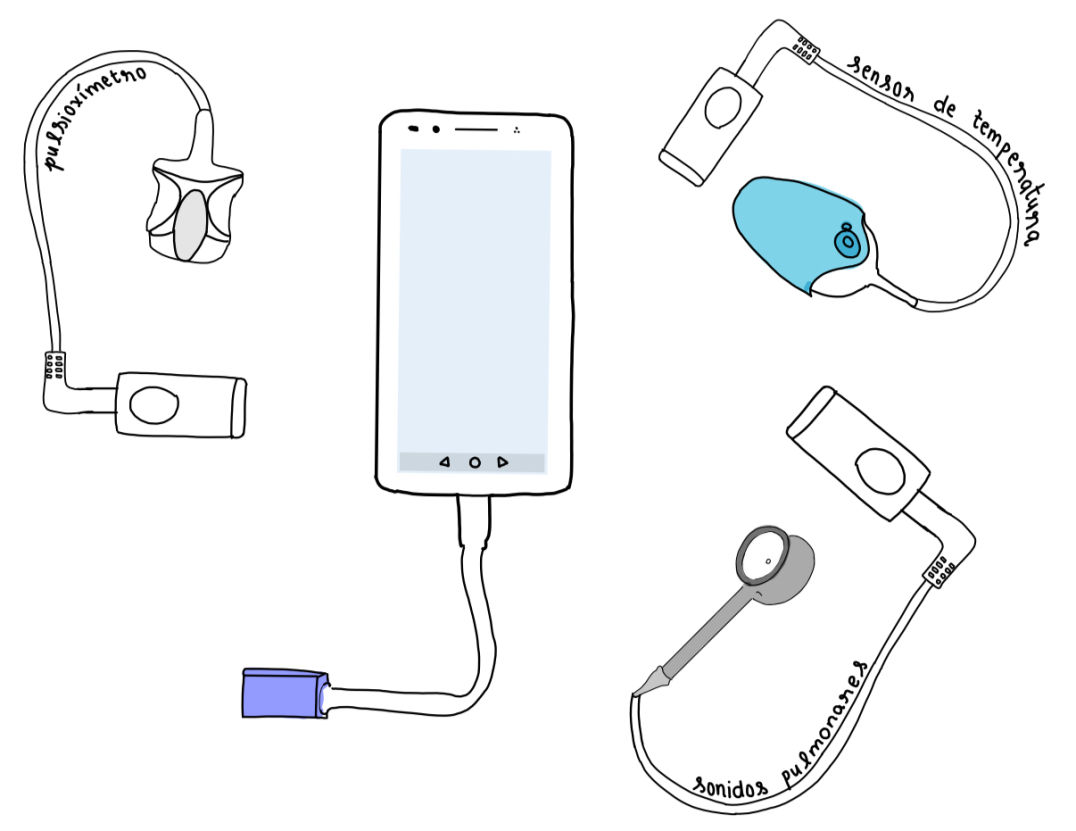
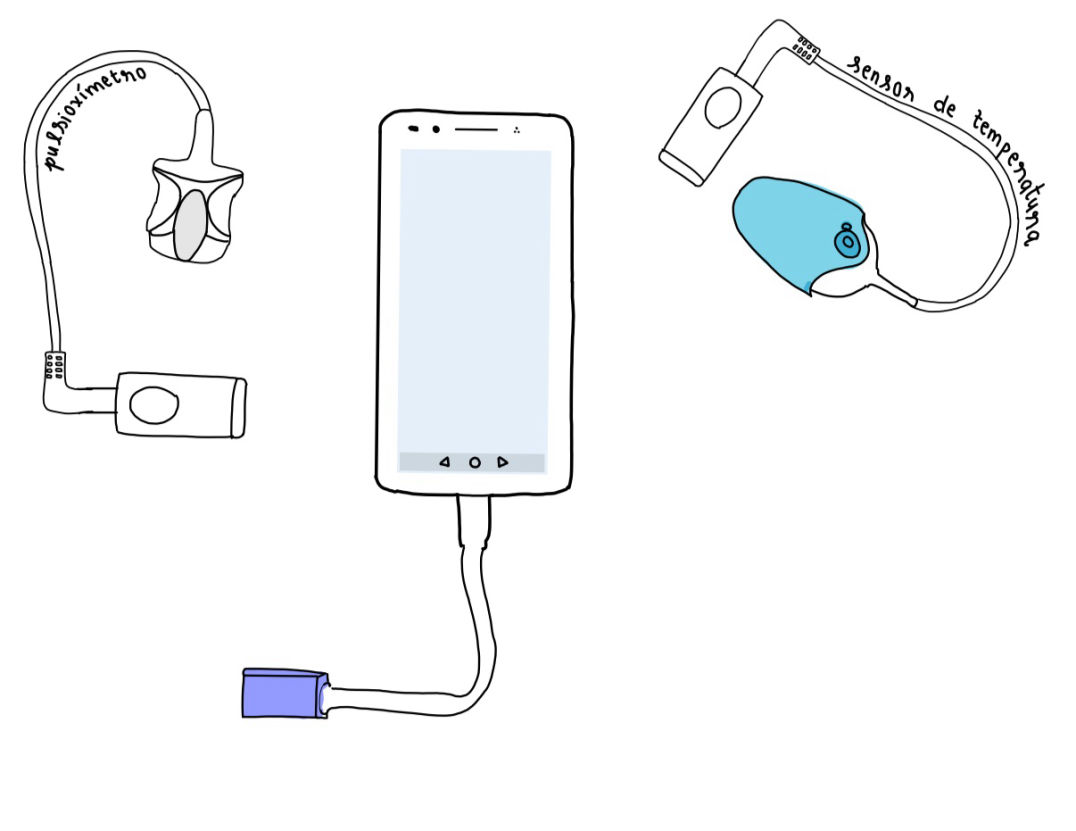
create github pages

Changed region(s): [[0.7361, 0.4513, 0.9201, 0.7822], [0.5827, 0.6318, 0.7667, 0.9326], [0.6134, 0.7822, 0.8281, 0.9928]]

diff --git a/page11.html b/page11.html
@@ -61,7 +61,7 @@
 
 </section>
 
-<section class="engine"><a href="https://mobirise.info/y">free html site templates</a></section><section class="header5 cid-saI55jeGzr mbr-fullscreen" id="header5-8s">
+<section class="engine"><a href="https://mobirise.info/x">css templates</a></section><section class="header5 cid-saI55jeGzr mbr-fullscreen" id="header5-8s">
 
     
 
@@ -105,8 +105,8 @@
         </div>
         <div class="row mbr-gallery mt-4">
             <div class="col-12 col-md-6 col-lg-3 item gallery-image">
-                <div class="item-wrapper" data-toggle="modal" data-target="#schOWoBR24-modal">
-                    <img class="w-100" src="assets/images/2743853-1-506x506.png" alt="" data-slide-to="0" data-target="#lb-schOWoBR24">
+                <div class="item-wrapper" data-toggle="modal" data-target="#schWL0yI3U-modal">
+                    <img class="w-100" src="assets/images/2743853-1-506x506.png" alt="" data-slide-to="0" data-target="#lb-schWL0yI3U">
                     <div class="icon-wrapper">
                         <span class="mobi-mbri mobi-mbri-search mbr-iconfont mbr-iconfont-btn"></span>
                     </div>
@@ -114,8 +114,8 @@
                 <h6 class="mbr-item-subtitle mbr-fonts-style align-center mb-2 mt-2 display-7"><strong>FALLECIDOS</strong><br>31,938</h6>
             </div>
             <div class="col-12 col-md-6 col-lg-3 item gallery-image">
-                <div class="item-wrapper" data-toggle="modal" data-target="#schOWoBR24-modal">
-                    <img class="w-100" src="assets/images/82415-506x506.png" alt="" data-slide-to="1" data-target="#lb-schOWoBR24">
+                <div class="item-wrapper" data-toggle="modal" data-target="#schWL0yI3U-modal">
+                    <img class="w-100" src="assets/images/82415-506x506.png" alt="" data-slide-to="1" data-target="#lb-schWL0yI3U">
                     <div class="icon-wrapper">
                         <span class="mobi-mbri mobi-mbri-search mbr-iconfont mbr-iconfont-btn"></span>
                     </div>
@@ -123,8 +123,8 @@
                 <h6 class="mbr-item-subtitle mbr-fonts-style align-center mb-2 mt-2 display-7"><strong>LETALIDAD</strong><br>4.05%</h6>
             </div>
             <div class="col-12 col-md-6 col-lg-3 item gallery-image">
-                <div class="item-wrapper" data-toggle="modal" data-target="#schOWoBR24-modal">
-                    <img class="w-100" src="assets/images/3150472-506x506.png" alt="" data-slide-to="2" data-target="#lb-schOWoBR24">
+                <div class="item-wrapper" data-toggle="modal" data-target="#schWL0yI3U-modal">
+                    <img class="w-100" src="assets/images/3150472-506x506.png" alt="" data-slide-to="2" data-target="#lb-schWL0yI3U">
                     <div class="icon-wrapper">
                         <span class="mobi-mbri mobi-mbri-search mbr-iconfont mbr-iconfont-btn"></span>
                     </div>
@@ -132,8 +132,8 @@
                 <h6 class="mbr-item-subtitle mbr-fonts-style align-center mb-2 mt-2 display-7"><strong>PCR(+)</strong><br>181,745</h6>
             </div>
             <div class="col-12 col-md-6 col-lg-3 item gallery-image">
-                <div class="item-wrapper" data-toggle="modal" data-target="#schOWoBR24-modal">
-                    <img class="w-100" src="assets/images/125016-506x506.png" alt="" data-slide-to="3" data-target="#lb-schOWoBR24">
+                <div class="item-wrapper" data-toggle="modal" data-target="#schWL0yI3U-modal">
+                    <img class="w-100" src="assets/images/125016-506x506.png" alt="" data-slide-to="3" data-target="#lb-schWL0yI3U">
                     <div class="icon-wrapper">
                         <span class="mobi-mbri mobi-mbri-search mbr-iconfont mbr-iconfont-btn"></span>
                     </div>
@@ -142,11 +142,11 @@
             </div>
         </div>
 
-        <div class="modal mbr-slider" tabindex="-1" role="dialog" aria-hidden="true" id="schOWoBR24-modal">
+        <div class="modal mbr-slider" tabindex="-1" role="dialog" aria-hidden="true" id="schWL0yI3U-modal">
             <div class="modal-dialog" role="document">
                 <div class="modal-content">
                     <div class="modal-body">
-                        <div class="carousel slide" id="lb-schOWoBR24" data-interval="5000">
+                        <div class="carousel slide" id="lb-schWL0yI3U" data-interval="5000">
                             <div class="carousel-inner">
                                 <div class="carousel-item active">
                                     <img class="d-block w-100" src="assets/images/2743853-1-506x506.png" alt="">
@@ -162,18 +162,18 @@
                                 </div>
                             </div>
                             <ol class="carousel-indicators">
-                                <li data-slide-to="0" class="active" data-target="#lb-schOWoBR24"></li>
-                                <li data-slide-to="1" data-target="#lb-schOWoBR24"></li>
-                                <li data-slide-to="2" data-target="#lb-schOWoBR24"></li>
-                                <li data-slide-to="3" data-target="#lb-schOWoBR24"></li>
+                                <li data-slide-to="0" class="active" data-target="#lb-schWL0yI3U"></li>
+                                <li data-slide-to="1" data-target="#lb-schWL0yI3U"></li>
+                                <li data-slide-to="2" data-target="#lb-schWL0yI3U"></li>
+                                <li data-slide-to="3" data-target="#lb-schWL0yI3U"></li>
                             </ol>
                             <a role="button" href="" class="close" data-dismiss="modal" aria-label="Close">
                             </a>
-                            <a class="carousel-control-prev carousel-control" role="button" data-slide="prev" href="#lb-schOWoBR24">
+                            <a class="carousel-control-prev carousel-control" role="button" data-slide="prev" href="#lb-schWL0yI3U">
                                 <span class="mobi-mbri mobi-mbri-arrow-prev" aria-hidden="true"></span>
                                 <span class="sr-only">Previous</span>
                             </a>
-                            <a class="carousel-control-next carousel-control" role="button" data-slide="next" href="#lb-schOWoBR24">
+                            <a class="carousel-control-next carousel-control" role="button" data-slide="next" href="#lb-schWL0yI3U">
                                 <span class="mobi-mbri mobi-mbri-arrow-next" aria-hidden="true"></span>
                                 <span class="sr-only">Next</span>
                             </a>

diff --git a/page13.html b/page13.html
@@ -61,7 +61,7 @@
 
 </section>
 
-<section class="engine"><a href="https://mobirise.info">Mobirise</a></section><section class="header18 cid-sbXfYVa2pc mbr-fullscreen mbr-parallax-background" id="header18-aa">
+<section class="engine"><a href="https://mobirise.info/w">html5 templates</a></section><section class="header18 cid-sbXfYVa2pc mbr-fullscreen mbr-parallax-background" id="header18-aa">
 
     
 
@@ -239,7 +239,7 @@
                 <div class="text-wrapper">
                     <h3 class="mbr-section-title mbr-fonts-style mb-3 display-5"><strong>Estrategia 3: Conjunto de sensores para medición de parámetros mediante de un dispositivo móvil
 </strong><div><strong><br></strong></div></h3>
-                    <p class="mbr-text mbr-fonts-style display-7">Esta estrategia se enfoca en la medición de señales a través de un grupo de sensores que miden la saturación de oxígeno, temperatura y sonidos pulmonares, cuyos resultados podrán ser almacenados y registrados [5]. Cada uno de estos contarán con una salida USB y se conectarán al puerto tipo C del celular mediante un adaptador hub usb.&nbsp;&nbsp;<br><br>Los sensores no tienen memoria propia ni batería. Para que el almacenamiento sea posible, requiere conectarse a un dispositivo móvil para funcionar y también poder guardar los datos de las mediciones en una aplicación.&nbsp;<br>
+                    <p class="mbr-text mbr-fonts-style display-7">Esta estrategia se enfoca en la medición de señales a través de un grupo de sensores que miden la saturación de oxígeno y temperatura del paciente, cuyos resultados podrán ser almacenados y registrados [5]. Cada uno de estos contarán con una salida USB y se conectarán al puerto tipo C del celular mediante un adaptador hub usb.&nbsp;&nbsp;<br><br>Los sensores no tienen memoria propia ni batería. Para que el almacenamiento sea posible, requiere conectarse a un dispositivo móvil para funcionar y también poder guardar los datos de las mediciones en una aplicación.&nbsp;<br>
 <br>Además, la aplicación enviará recordatorios para el registro de medición del paciente según la frecuencia que un médico le indique. Y en el caso de que los niveles de alguna medición salgan de un umbral preestablecido la misma aplicación enviaría una alerta al médico tratante, significando que requiere mayor prioridad de atención.
 <br></p>
                 </div>

diff --git a/page16.html b/page16.html
@@ -61,7 +61,7 @@
 
 </section>
 
-<section class="engine"><a href="https://mobirise.info/s">free bootstrap themes</a></section><section class="header5 cid-saBO9DyXkd mbr-fullscreen" id="header5-7a">
+<section class="engine"><a href="https://mobirise.info/h">create a web page for free</a></section><section class="header5 cid-saBO9DyXkd mbr-fullscreen" id="header5-7a">
 
     
 
@@ -139,11 +139,11 @@
     <div class="container">
         <div class="row justify-content-center">
             <div class="col-12 col-md-12">
-                <div class="carousel slide" id="schOVSLCyA" data-interval="5000">
+                <div class="carousel slide" id="schWKvA7eJ" data-interval="5000">
                     
                     <ol class="carousel-indicators">
-                        <li data-slide-to="0" class="active" data-target="#schOVSLCyA"></li>
-                        <li data-slide-to="1" data-target="#schOVSLCyA"></li><li data-slide-to="2" data-target="#schOVSLCyA"></li>
+                        <li data-slide-to="0" class="active" data-target="#schWKvA7eJ"></li>
+                        <li data-slide-to="1" data-target="#schWKvA7eJ"></li><li data-slide-to="2" data-target="#schWKvA7eJ"></li>
                         
                     </ol>
                     <div class="carousel-inner">
@@ -185,11 +185,11 @@
                             </div>
                         </div>
                     </div>
-                    <a class="carousel-control carousel-control-prev" role="button" data-slide="prev" href="#schOVSLCyA">
+                    <a class="carousel-control carousel-control-prev" role="button" data-slide="prev" href="#schWKvA7eJ">
                         <span class="mobi-mbri mobi-mbri-arrow-prev" aria-hidden="true"></span>
                         <span class="sr-only">Previous</span>
                     </a>
-                    <a class="carousel-control carousel-control-next" role="button" data-slide="next" href="#schOVSLCyA">
+                    <a class="carousel-control carousel-control-next" role="button" data-slide="next" href="#schWKvA7eJ">
                         <span class="mobi-mbri mobi-mbri-arrow-next" aria-hidden="true"></span>
                         <span class="sr-only">Next</span>
                     </a>

diff --git a/index.html b/index.html
@@ -60,7 +60,7 @@
 
 </section>
 
-<section class="engine"><a href="https://mobirise.info/h">create your own web page for free</a></section><section class="header1 cid-s48MCQYojq mbr-fullscreen mbr-parallax-background" id="header1-f">
+<section class="engine"><a href="https://mobirise.info/s">bootstrap theme</a></section><section class="header1 cid-s48MCQYojq mbr-fullscreen mbr-parallax-background" id="header1-f">
 
     
 

diff --git a/page1.html b/page1.html
@@ -61,7 +61,7 @@
 
 </section>
 
-<section class="engine"><a href="https://mobirise.info/k">how to develop your own website</a></section><section class="header18 cid-s9Lg6V0JRd mbr-fullscreen" id="header18-x">
+<section class="engine"><a href="https://mobirise.info/u">bootstrap html templates</a></section><section class="header18 cid-s9Lg6V0JRd mbr-fullscreen" id="header18-x">
 
     
 

diff --git a/page6.html b/page6.html
@@ -60,7 +60,7 @@
 
 </section>
 
-<section class="engine"><a href="https://mobirise.info/b">how to create your own site for free</a></section><section class="header5 cid-sapsypK46x mbr-fullscreen" id="header5-25">
+<section class="engine"><a href="https://mobirise.info/w">free html5 templates</a></section><section class="header5 cid-sapsypK46x mbr-fullscreen" id="header5-25">
 
     
 

diff --git a/page8.html b/page8.html
@@ -60,7 +60,7 @@
 
 </section>
 
-<section class="engine"><a href="https://mobirise.info/s">free bootstrap theme</a></section><section class="header12 cid-sapw7D5zx5 mbr-parallax-background" id="header12-2c">
+<section class="engine"><a href="https://mobirise.info/d">site maker</a></section><section class="header12 cid-sapw7D5zx5 mbr-parallax-background" id="header12-2c">
 
     
 

diff --git a/economía.html b/economía.html
@@ -60,7 +60,7 @@
 
 </section>
 
-<section class="engine"><a href="https://mobirise.info/u">bootstrap html templates</a></section><section class="header4 cid-sazeFcDULY mbr-fullscreen" id="header4-3s">
+<section class="engine"><a href="https://mobirise.info/w">free html5 templates</a></section><section class="header4 cid-sazeFcDULY mbr-fullscreen" id="header4-3s">
 
     
     

diff --git a/page7.html b/page7.html
@@ -60,7 +60,7 @@
 
 </section>
 
-<section class="engine"><a href="https://mobirise.info/w">free html5 templates</a></section><section class="header4 cid-sawRYdhiac mbr-fullscreen" id="header4-31">
+<section class="engine"><a href="https://mobirise.info/z">best free html templates</a></section><section class="header4 cid-sawRYdhiac mbr-fullscreen" id="header4-31">
 
     
     

diff --git a/page12.html b/page12.html
@@ -62,7 +62,7 @@
 
 </section>
 
-<section class="engine"><a href="https://mobirise.info/o">portfolio site templates</a></section><section class="header5 cid-sbajACck9I mbr-fullscreen" id="header5-9g">
+<section class="engine"><a href="https://mobirise.info/v">free html templates</a></section><section class="header5 cid-sbajACck9I mbr-fullscreen" id="header5-9g">
 
     
 

diff --git a/page3.html b/page3.html
@@ -60,7 +60,7 @@
 
 </section>
 
-<section class="engine"><a href="https://mobirise.info/b">create a site for free</a></section><section class="header8 cid-s9LxlR3hSu mbr-fullscreen" id="header8-1e">
+<section class="engine"><a href="https://mobirise.info/b">create a site</a></section><section class="header8 cid-s9LxlR3hSu mbr-fullscreen" id="header8-1e">
     
 
     

diff --git a/page2.html b/page2.html
@@ -61,7 +61,7 @@
 
 </section>
 
-<section class="engine"><a href="https://mobirise.info/n">free simple site templates</a></section><section class="header12 cid-s9Li6aq2Gc" id="header12-12">
+<section class="engine"><a href="https://mobirise.info/e">how to make your own site for free</a></section><section class="header12 cid-s9Li6aq2Gc" id="header12-12">
 
     
 
